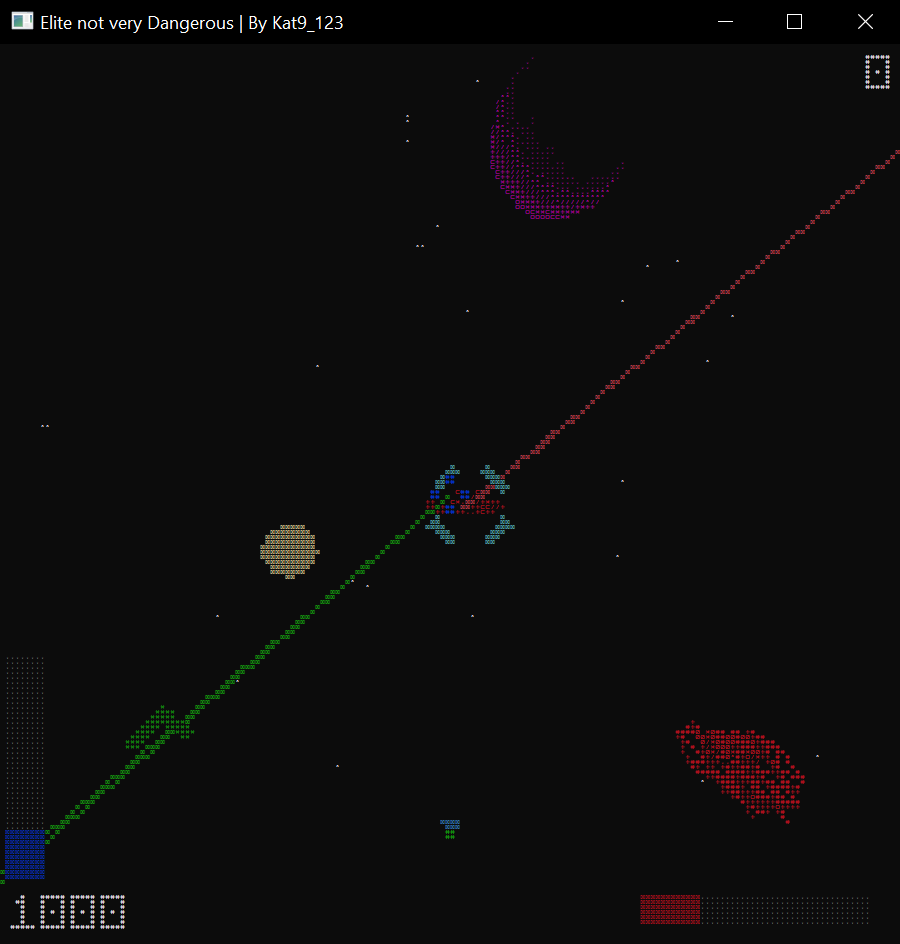
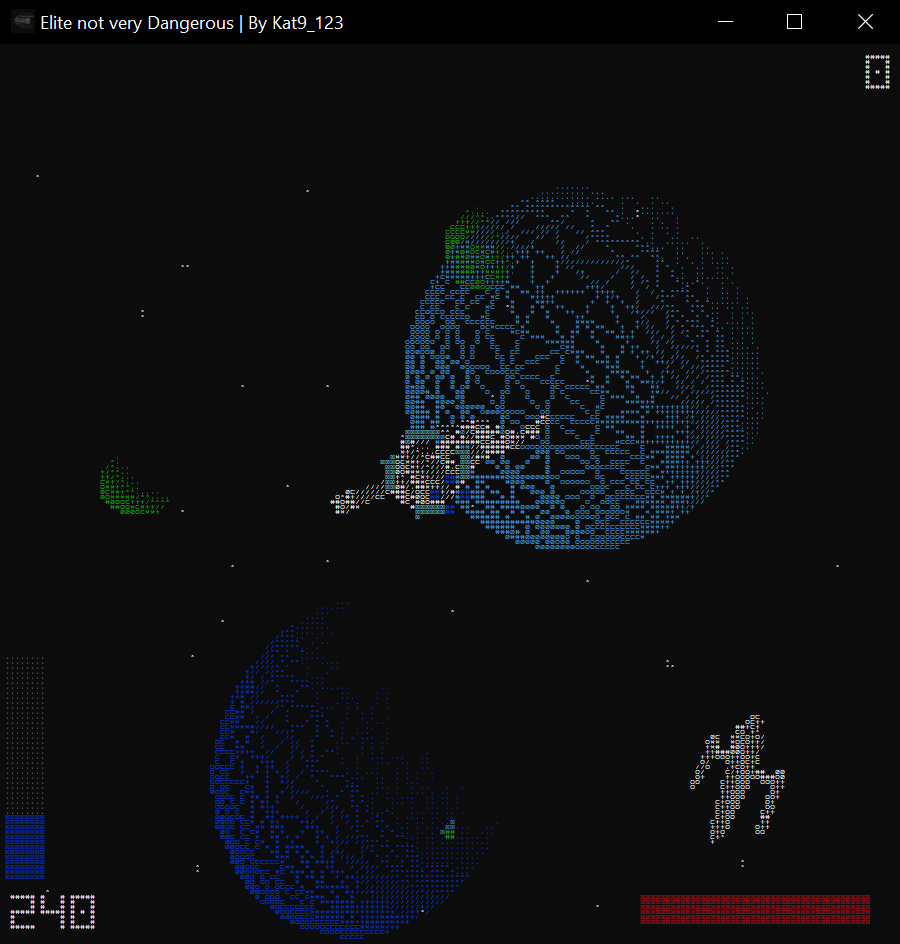
Titlescreen

diff --git a/src/game/src/ui/Titlescreen.cs b/src/game/src/ui/Titlescreen.cs
@@ -1,0 +1,62 @@
+using System;
+
+namespace Elite
+{
+    public class Titlescreen : GameObject
+    {
+        private Timer flashTimer = new Timer(0.8f);
+        private bool currentFlash = false;
+
+        private float forwardRotation = Utils.RandomFloat(0.08f,0.28f);
+        private float upRotation = Utils.RandomFloat(0.08f,0.28f);
+        public override void Start()
+        {
+            Engine.ChanageIndex(this,1);
+            position = new Vector3(0,0,40);
+            getsLit = true;
+            lightingDirection = new Vector3(0,1,0);
+
+            forward = Utils.RotateAroundAxis(forward,up,Utils.RandomFloat(0,2*MathF.PI));
+            up = Utils.RotateAroundAxis(up,forward,Utils.RandomFloat(0,2*MathF.PI));
+
+            if(Utils.RandomInt(0,2) == 0)
+            {
+                mesh = Models.stingrayMesh;
+            }
+            else
+            {
+                mesh = Models.chargerMesh;
+            }
+
+
+
+        }
+
+        public override void Update(float deltaTime)
+        {
+            if(flashTimer.Accumulate())
+            {
+                currentFlash = !currentFlash;
+                flashTimer.Reset();
+            }
+
+            short col = 15;
+            if(currentFlash) col = 1;
+
+            UI.WriteText("Elite not very Dangerous",20,20,'#',col);
+            UI.WriteText("By: Kat9;123",53,33,'^',8);
+            UI.WriteText("Press Enter to start",31,136,'+',11);
+            
+
+            forward = Utils.RotateAroundAxis(forward,up,forwardRotation*deltaTime);
+            up = Utils.RotateAroundAxis(up,forward,upRotation*deltaTime);
+            if(InputManager.IsKeyPressed(InputMap.START_KEY))
+            {
+                Engine.gameManager.Setup();
+                Engine.QueueDestruction(this);
+            }
+        }
+
+
+    }
+}

diff --git a/src/engine/ConsoleInterface.cs b/src/engine/ConsoleInterface.cs
@@ -261,6 +261,8 @@ namespace Elite
 
         [DllImport("user32.dll")]
         private static extern IntPtr GetForegroundWindow();
+
+        /*
         [DllImport("user32.dll")]
         private static extern int GetWindowText(IntPtr hWnd, StringBuilder text, int count);
 
@@ -276,10 +278,39 @@ namespace Elite
             }
             return null;
         }
-
+        */
         public static bool IsFocused()
         {
-            return GetActiveWindowTitle() == Engine.TITLE;
+            IntPtr handle = System.Diagnostics.Process.GetCurrentProcess().MainWindowHandle;
+    
+            return GetForegroundWindow() == handle;
+        }
+
+        
+        public static void SetConsoleIcon(string iconFilePath)
+        {
+            if (Environment.OSVersion.Platform == PlatformID.Win32NT)
+            {
+                if (!string.IsNullOrEmpty(iconFilePath))
+                {
+                    System.Drawing.Icon icon = new System.Drawing.Icon(iconFilePath);
+                    SetWindowIcon(icon);
+                }
+            }
+        }
+
+
+        [System.Runtime.InteropServices.DllImport("user32.dll", CharSet = System.Runtime.InteropServices.CharSet.Auto)]
+        private static extern IntPtr SendMessage(IntPtr hWnd, int Msg, int wParam, IntPtr lParam);
+
+
+        private static void SetWindowIcon(System.Drawing.Icon icon)
+        {
+
+
+            IntPtr mwHandle = System.Diagnostics.Process.GetCurrentProcess().MainWindowHandle;
+            IntPtr result01 = SendMessage(mwHandle, 0x0080, 0, icon.Handle);
+            IntPtr result02 = SendMessage(mwHandle, 0x0080, 1, icon.Handle);
         }
     }
 }

diff --git a/src/engine/rendering/UI.cs b/src/engine/rendering/UI.cs
@@ -23,7 +23,7 @@ namespace Elite
   
         }
 
-        public static void WriteText(string text, int posX, int posY)
+        public static void WriteText(string text, int posX, int posY, char character='#', short colour=15)
         {
             int startX = posX;
             for (int i = 0; i < text.Length; i++)
@@ -45,7 +45,7 @@ namespace Elite
 
                 }
 
-                if(text[i] != ' ') WriteCharacter(FontHandler.characters[index],posX,posY);
+                if(text[i] != ' ') WriteCharacter(FontHandler.characters[index],posX,posY,character,colour);
 
                 posX += 6;
                 
@@ -54,15 +54,15 @@ namespace Elite
 
         }
         
-        private static void WriteCharacter(string character, int posX, int posY)
+        private static void WriteCharacter(string fontChar, int posX, int posY, char character, short colour)
         {
             for (int y = 0; y < 7; y++)
             {
                 for (int x = 0; x < 5; x++)
                 {
-                    if(character[y*5+x] == ' ') continue;
-                    UIBuffer[(y+posY)*Settings.SCREEN_SIZE_X + x+posX].Char.AsciiChar = Convert.ToByte(character[y*5+x]);
-                    UIBuffer[(y+posY)*Settings.SCREEN_SIZE_X + x+posX].Attributes = (short)ConsoleColor.White;
+                    if(fontChar[y*5+x] == ' ') continue;
+                    UIBuffer[(y+posY)*Settings.SCREEN_SIZE_X + x+posX].Char.AsciiChar = Convert.ToByte(character);
+                    UIBuffer[(y+posY)*Settings.SCREEN_SIZE_X + x+posX].Attributes = colour;
 
                 }
             }

diff --git a/src/engine/Engine.cs b/src/engine/Engine.cs
@@ -53,7 +53,7 @@ namespace Elite
         private static List<GameObject> queuedObjectsForDestruction = new List<GameObject>();
 
         
-        public const string TITLE = "Elite not very Dangerous | By Kat9_123";
+        private const string TITLE = "Elite not very Dangerous | By Kat9_123";
 
         public static float deltaTime = 0f;
 
@@ -122,6 +122,8 @@ namespace Elite
                 return false;
             }
             Console.Title = TITLE;
+            ConsoleInterface.SetConsoleIcon("assets\\icon.ico");
+            Console.CursorVisible = false;
             
             // Initialise file stuff
             FileHandler.Setup();
@@ -146,8 +148,6 @@ namespace Elite
             // Graphics
             Renderer.Initialise();
 
-
-            Console.CursorVisible = false;
 
             return true;
 

diff --git a/src/engine/filehandlers/loaders/FontLoader.cs b/src/engine/filehandlers/loaders/FontLoader.cs
@@ -6,14 +6,14 @@ namespace Elite
     public static class FontHandler
     {
         // 26 characters + 10 numbers
-        public static string[] characters = new string[26+10];
+        public static string[] characters = new string[26+10+2];
 
         public static void LoadFont()
         {
             string data = FileHandler.Read("Font.txt");
             
-            // Characters are separated by TWO newlines
-            string[] splitData = data.Split("\r\n\r\n");
+            // Characters are separated by TWO newlines and a backtick in between them
+            string[] splitData = data.Split("\r\n`\r\n");
           
             for (int i = 0; i < splitData.Length; i++)
             {

diff --git a/src/game/src/GameManager.cs b/src/game/src/GameManager.cs
@@ -82,7 +82,7 @@ namespace Elite
             Engine.cameraPosition = new Vector3(0,0,0);
 
 
-            Engine.cameraUp = new Vector3(0,1,0);
+            Engine.cameraUp = new Vector3(0,-1,0);
             Engine.cameraForward = new Vector3(0,0,1);
             Engine.cameraRight = new Vector3(1,0,0);
 
@@ -91,14 +91,10 @@ namespace Elite
 
         public override void Start()
         {
-            //  Models.cubeMesh = ModelHandler.LoadModel("test.obj");
             visible = false;
-
-            Setup();
-
+            Engine.Instance(new Titlescreen());
 
         }
-
 
 
 

diff --git a/src/game/src/ui/EnemyDisplay.cs b/src/game/src/ui/EnemyDisplay.cs
@@ -45,7 +45,7 @@ namespace Elite
             forward = target.forward;
             up = target.up;
             colour = target.colour;
-            lightingDirection = Engine.cameraUp * 1f;
+            lightingDirection = Engine.cameraUp;
             //Vector3 add = 
            // position += Engine.cameraForward* add.z + Engine.cameraUp*add.y + Utils.Cross(Engine.cameraUp,Engine.cameraForward)*add.x;
         }

diff --git a/src/engine/input/InputMap.cs b/src/engine/input/InputMap.cs
@@ -40,7 +40,9 @@ namespace Elite
         BLINK_MOUSE = 0x2, // RIGHT MOUSE BUTTON
 
 
-        FREE_MOUSE = 0x4D // M
+        FREE_MOUSE = 0x4D, // M
+
+        START_KEY = 0x0D // Enter
 
 
 

diff --git a/src/Program.cs b/src/Program.cs
@@ -6,7 +6,7 @@ namespace Elite
     {        
         private static void Main(string[] args)
         {
-
+           
             if(!Engine.Setup()) return;
 
             Engine.Run();

diff --git a/src/game/src/ui/UIManager.cs b/src/game/src/ui/UIManager.cs
@@ -126,6 +126,8 @@ namespace Elite
 
 
             DebugInfo();
+
+
             
 
             // Points

diff --git a/README.md b/README.md
@@ -12,12 +12,17 @@
 
 
 ## What is it?
-This is a 3D engine and a simple game made. very loosely based on the original Elite. 
+This is a simple game made in my custom 3D Engine that draws it's graphics to the console.
+The game is very loosely based on the original Elite. 
 Everything was made by me except for the really low level console interactions.
 
+The game isn't really a complete game. It's more of a techdemo.
 
 ### Features
 - 2 Enemies and a Boss
+- Mouse and Keyboard controls
+- Short distance warp ability
+
 
 
 
@@ -40,13 +45,14 @@ Everything was made by me except for the really low level console interactions.
 
 ## Why?
 After finishing <a href="https://github.com/Kat9-123/Asteroids">Asteroids</a> 
-I thought "What if I make another game in the console, but in 3D". First I dismissed it as I thought
+I thought "What if I made Elite in the console". First I dismissed it as I thought
 that I was far to incapable to do something like that. After a while of thinking about it I decided
 to do some research. I stumbled upon 
 <a href="https://www.youtube.com/watch?v=ih20l3pJoeU">OLC's 3D Rendering Engine</a> tutorial. Though
 it was a tutorial for C++ it was pretty easy to convert the core concepts to C#. After a lot of 
 tinkering I finally had a functioning renderer (rotation did take me some time to get fully functioning).
-After that the rest of the Engine architecture was relatively simple. 
+After that the rest of the Engine architecture was relatively simple.
+
 
 
 ## How to play it
